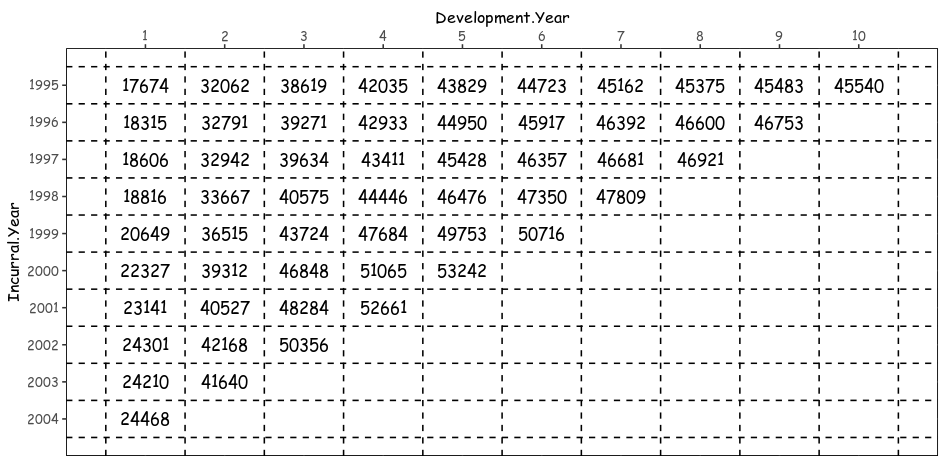
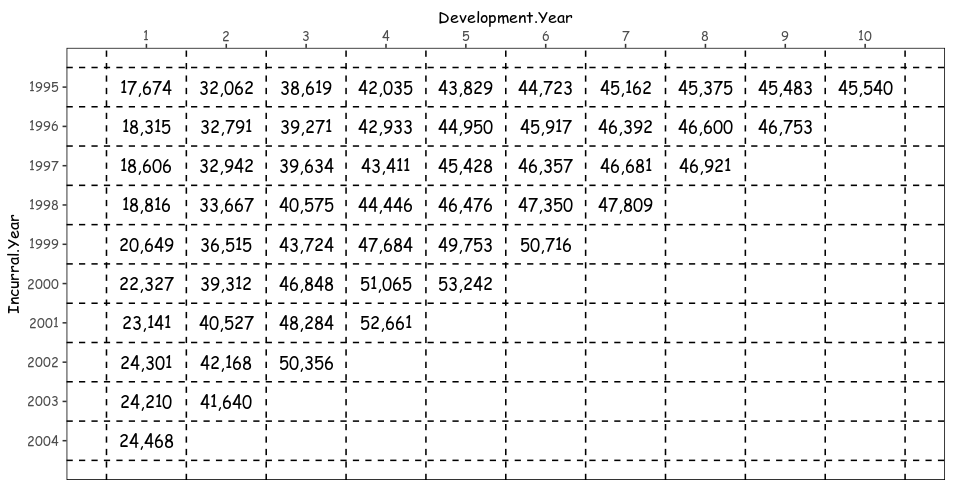
`ggtable` function example is modified

diff --git a/README.md b/README.md
@@ -216,6 +216,7 @@ plotly_pie(data, labels = Vehicle_Use, values = Claim_Count) |>
 if (!require("insuranceData")) install.packages("insuranceData")
 
 library(insuranceData)
+library(scales)
 
 data("IndustryAuto")
 head(IndustryAuto)
@@ -230,8 +231,7 @@ head(IndustryAuto)
 IndustryAuto$Incurral.Year <- as.factor(IndustryAuto$Incurral.Year)
 IndustryAuto$Development.Year <- as.factor(IndustryAuto$Development.Year)
 
-ggtable(IndustryAuto, x = Development.Year, y = Incurral.Year, label = Claim) +
-  scale_y_comma() +
+ggtable(IndustryAuto, x = Development.Year, y = Incurral.Year, label = scales::comma(Claim)) +
   theme_view()
 ```
 
